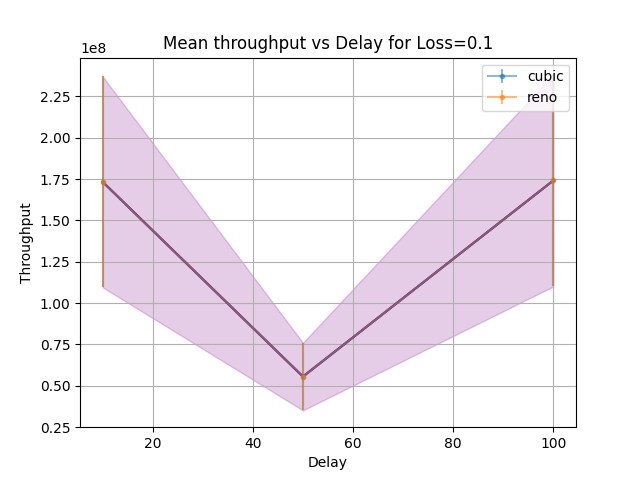
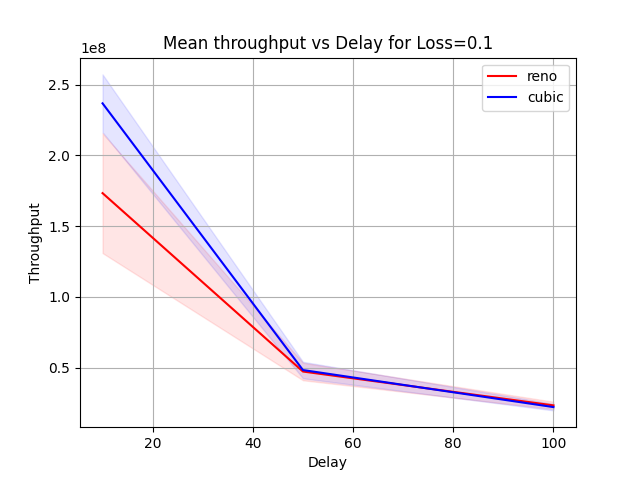
Plotter.py is working again

diff --git a/plotter.py b/plotter.py
@@ -11,7 +11,12 @@ if(len(sys.argv) != 3):
 
 t1 = sys.argv[1]
 t2 = sys.argv[2]
-tcp1 = tcp2 = tcp1tp_mean = tcp1tp_std = tcp2tp_mean = tcp2tp_std = []
+tcp1 = []
+tcp2 = []
+tcp1tp_mean = []
+tcp1tp_std = []
+tcp2tp_mean = []
+tcp2tp_std = []
 f2 = open("results.txt", 'w')
 with open('textfile.txt','r') as f:
 	for line in f:
@@ -67,11 +72,11 @@ for i in range(3):
 	tcp1_std = np.array([tcp1tp_std[i],tcp1tp_std[i+3],tcp1tp_std[i+6]])
 	tcp2_std = np.array([tcp2tp_std[i],tcp2tp_std[i+3],tcp2tp_std[i+6]])
 
-	plt.errorbar(delay, ytcp1, yerr = tcp1_std, label=t1, marker='.', alpha = 0.5)
-	plt.errorbar(delay, ytcp2, yerr = tcp2_std, label=t2, marker='.',  alpha = 0.5)
-	plt.plot(delay, ytcp1, color="red")
+	#plt.errorbar(delay, ytcp1, yerr = tcp1_std, label=t1, marker='.', alpha = 0.5)
+	#plt.errorbar(delay, ytcp2, yerr = tcp2_std, label=t2, marker='.',  alpha = 0.5)
+	plt.plot(delay, ytcp1, color="red",label=t1)
 	plt.fill_between(delay, ytcp1 - tcp1_std, ytcp1 + tcp1_std, color='red', alpha=0.1)
-	plt.plot(delay, ytcp2, color="blue")
+	plt.plot(delay, ytcp2, color="blue", label=t2)
 	plt.fill_between(delay, ytcp2 - tcp2_std, ytcp2 + tcp2_std, color='blue', alpha=0.1)
 	plt.legend()
 	
@@ -89,11 +94,11 @@ for i in range(3):
 	tcp1_std = np.array([tcp1tp_std[3*i],tcp1tp_std[3*i+1],tcp1tp_std[3*i+2]])
 	tcp2_std = np.array([tcp2tp_std[3*i],tcp2tp_std[3*i+1],tcp2tp_std[3*i+2]])
 
-	plt.errorbar(delay, ytcp1, yerr = tcp1_std, label=t1, marker='.', alpha = 0.5)
-	plt.errorbar(delay, ytcp2, yerr = tcp2_std, label=t2, marker='.',  alpha = 0.5)
-	plt.plot(delay, ytcp1, color="red")
+	#plt.errorbar(delay, ytcp1, yerr = tcp1_std, label=t1, marker='.', alpha = 0.5)
+	#plt.errorbar(delay, ytcp2, yerr = tcp2_std, label=t2, marker='.',  alpha = 0.5)
+	plt.plot(delay, ytcp1, color="red", label=t1)
 	plt.fill_between(delay, ytcp1 - tcp1_std, ytcp1 + tcp1_std, color='red', alpha=0.1)
-	plt.plot(delay, ytcp2, color="blue")
+	plt.plot(delay, ytcp2, color="blue", label=t2)
 	plt.fill_between(delay, ytcp2 - tcp2_std, ytcp2 + tcp2_std, color='blue', alpha=0.1)
 	plt.legend()
 	
